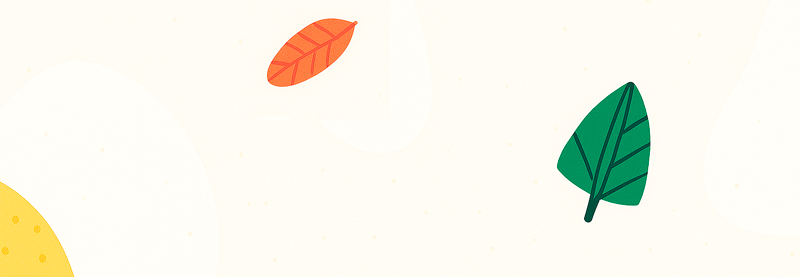
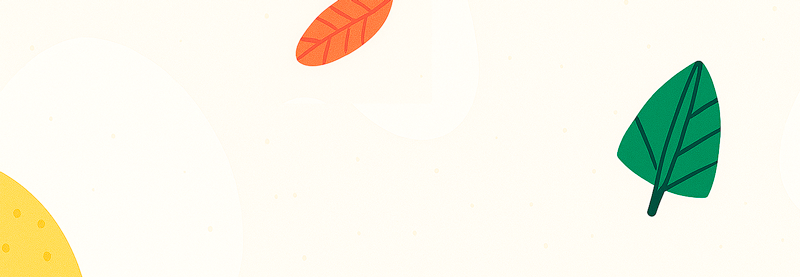
web service configuration popup

Changed region(s): [[0.6875, 0.2022, 0.9062, 0.8087], [0.3125, 0.0, 0.5, 0.3177], [0.0, 0.6065, 0.125, 1.0]]

diff --git a/src/App.tsx b/src/App.tsx
@@ -1,5 +1,6 @@
 import { useEffect, useState } from "react";
 import ServiceCard from "./components/ServiceCard";
+import WebConfigurator from "./components/WebConfigurator";
 
 type ServicesState = {
   seo: boolean;
@@ -28,6 +29,10 @@ function App() {
 
   const [total, setTotal] = useState(0);
 
+  // 🔢 Estat per a la configuració web
+  const [pages, setPages] = useState(1);
+  const [languages, setLanguages] = useState(1);
+
   const toggleService = (id: keyof ServicesState) => {
     setSelected(prev => ({
       ...prev,
@@ -36,29 +41,42 @@ function App() {
   };
 
   useEffect(() => {
-    const newTotal = services.reduce(
+    const baseTotal = services.reduce(
       (sum, service) => sum + (selected[service.id] ? service.price : 0),
       0
     );
-    setTotal(newTotal);
-  }, [selected]);
+
+    // Si web està seleccionat, afegim cost extra
+    const webExtra = selected.web ? (pages + languages) * 30 : 0;
+
+    setTotal(baseTotal + webExtra);
+  }, [selected, pages, languages]);
 
   return (
     <div className="min-h-screen bg-gray-50 py-10 px-4">
-      <div className="bg-[url('/src/assets/header-bg.png')] bg-cover bg-center text-black py-12 text-center rounded-lg shadow-md mb-8">
-        <h2 className="text-2xl font-bold">Aconsegueix la millor qualitat</h2>
-      </div>
+     <div className="bg-[url('/src/assets/header-bg.png')] bg-cover bg-center text-black py-14 text-center rounded-lg shadow-md mb-8">
+      <h1 className="text-3xl font-bold">Aconsegueix la millor qualitat</h1>
+    </div>
 
       <div className="max-w-xl mx-auto space-y-4">
         {services.map(service => (
-          <ServiceCard
-            key={service.id}
-            id={service.id}
-            name={service.name}
-            price={service.price}
-            selected={selected[service.id]}
-            onToggle={toggleService}
-          />
+          <div key={service.id}>
+            <ServiceCard
+              id={service.id}
+              name={service.name}
+              price={service.price}
+              selected={selected[service.id]}
+              onToggle={toggleService}
+            />
+            {service.id === "web" && selected.web && (
+              <WebConfigurator
+                pages={pages}
+                languages={languages}
+                onChangePages={setPages}
+                onChangeLanguages={setLanguages}
+              />
+            )}
+          </div>
         ))}
       </div>
 

diff --git a/src/components/WebConfigurator.tsx b/src/components/WebConfigurator.tsx
@@ -1,0 +1,43 @@
+type Props = {
+  pages: number;
+  languages: number;
+  onChangePages: (value: number) => void;
+  onChangeLanguages: (value: number) => void;
+};
+
+export default function WebConfigurator({
+  pages,
+  languages,
+  onChangePages,
+  onChangeLanguages,
+}: Props) {
+  return (
+    <div className="bg-white shadow-md p-4 rounded-lg mt-2">
+      <h3 className="font-medium mb-2">Configuració del servei Web</h3>
+
+      <div className="flex flex-col gap-4">
+        <label className="flex flex-col">
+          Nombres de pàgines:
+          <input
+            type="number"
+            min={1}
+            value={pages}
+            onChange={e => onChangePages(Number(e.target.value))}
+            className="border border-gray-300 rounded px-2 py-1 mt-1"
+          />
+        </label>
+
+        <label className="flex flex-col">
+          Nombres d'idiomes:
+          <input
+            type="number"
+            min={1}
+            value={languages}
+            onChange={e => onChangeLanguages(Number(e.target.value))}
+            className="border border-gray-300 rounded px-2 py-1 mt-1"
+          />
+        </label>
+      </div>
+    </div>
+  );
+}
